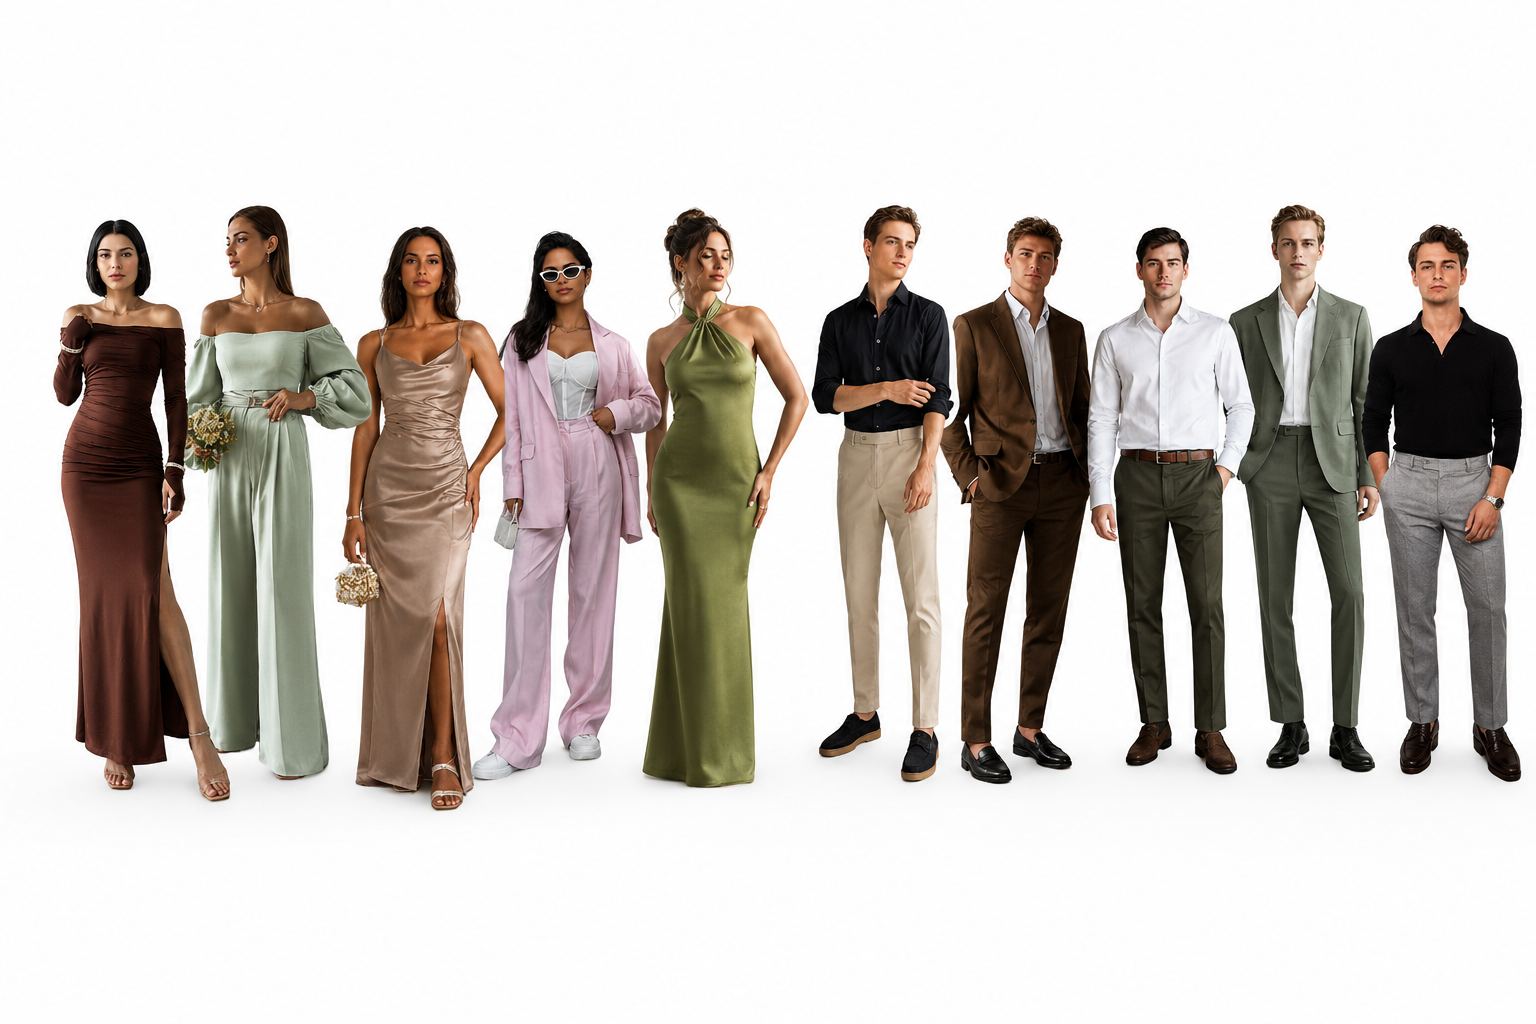
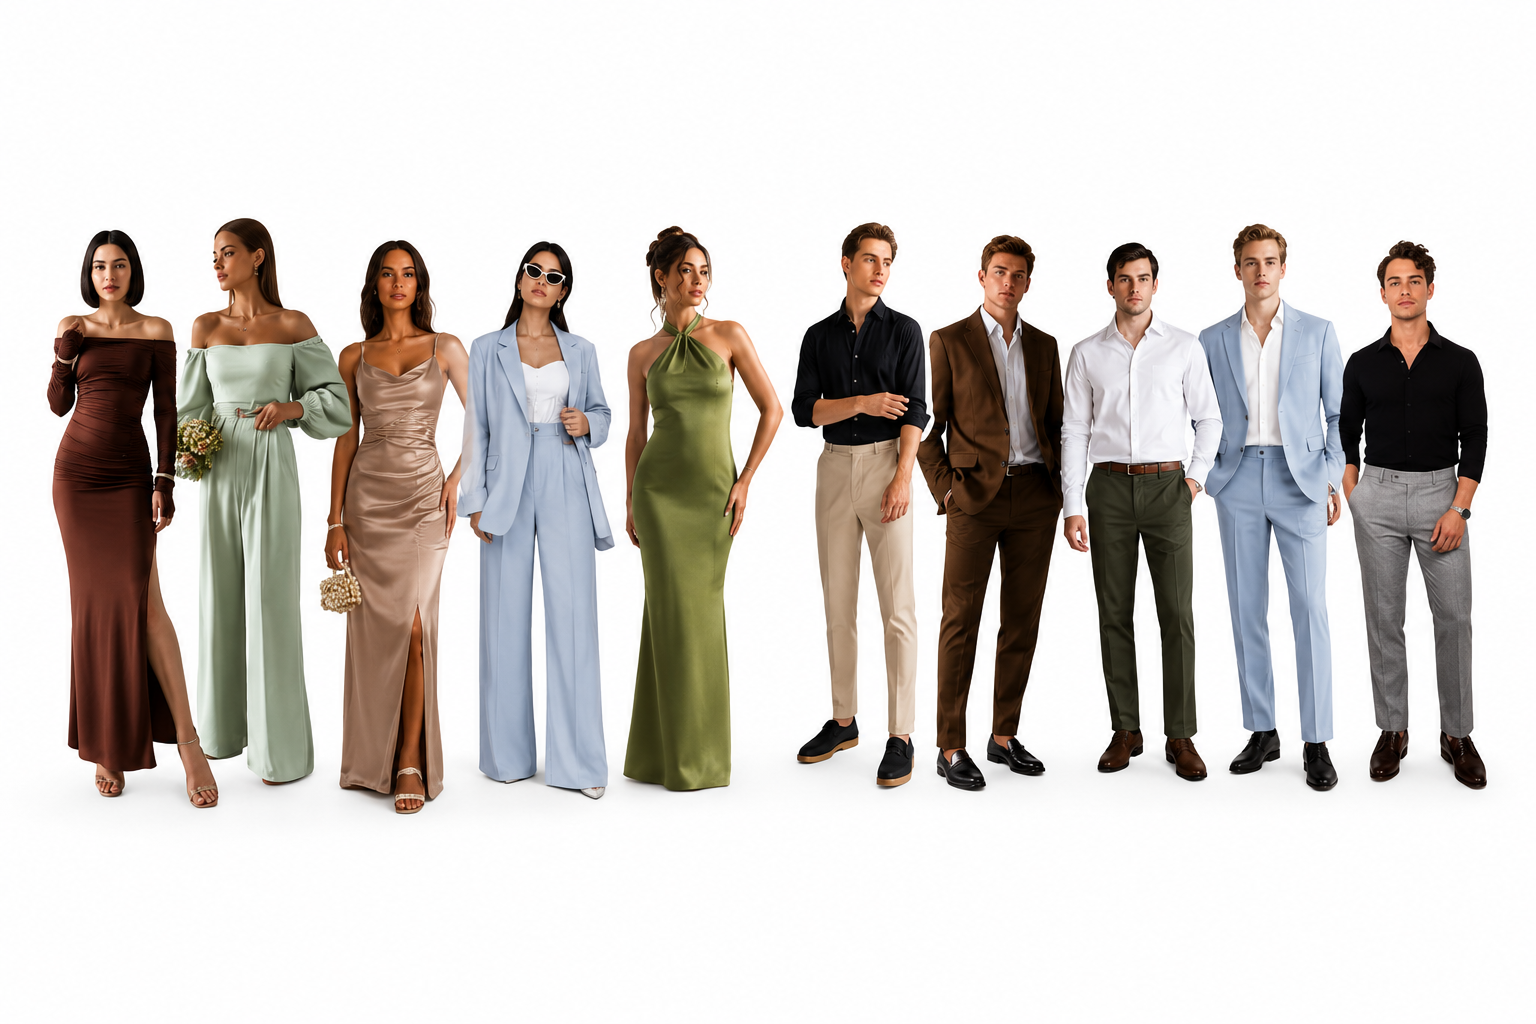
Add files via upload

diff --git a/index.html b/index.html
@@ -86,19 +86,19 @@
 
         <div class="timeline">
           <div class="timeline-row">
-            <time>13:30</time>
+            <time>14:00</time>
             <span class="dot"></span>
             <p>Сбор гостей</p>
           </div>
 
           <div class="timeline-row">
-            <time>14:30</time>
+            <time>15:00</time>
             <span class="dot"></span>
             <p>Церемония</p>
           </div>
 
           <div class="timeline-row">
-            <time>15:00</time>
+            <time>15:30</time>
             <span class="dot"></span>
             <p>Свадебный банкет</p>
           </div>